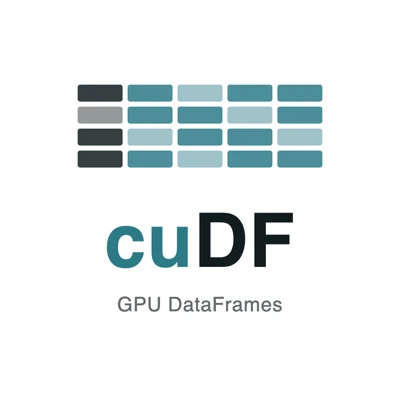
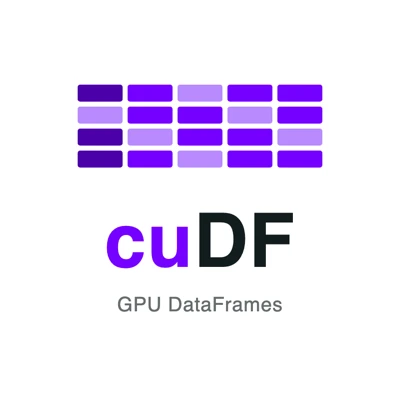
Brand colours for cuDF/Velox thumbnails; refresh About text and CAD DFT dates
- cuDF thumbnail in RAPIDS purple (#7400ff); Velox + cuDF in Velox blue
  (#143d99) and RAPIDS purple, with the GPU step in NVIDIA green (#76b900)
- About: current role (cuDF, Velox GPU backend) and "August 2014 to
  May 2019" CAD DFT Engineer wording
- Timeline: CAD DFT Engineer, Aug 2014 - May 2019

Changed region(s): [[0.18, 0.21, 0.81, 0.42], [0.24, 0.54, 0.48, 0.69]]

diff --git a/index.html b/index.html
@@ -121,8 +121,8 @@ function gotomini() {
       <div class="col-md-12 text-center"><img src="img/about.webp" class="img-responsive" width="200" height="200" alt="Karthikeyan Natarajan"></div>
       <div class="col-md-8 col-md-offset-2">
         <div class="about-text">
-          <p> I am a Senior Software Engineer developing Analytics libraries in CUDA at RAPIDS team at <a href="https://developer.nvidia.com/blog/author/knataraj" class="link-strong">NVIDIA</a>.
-		  Before May 2019, I worked as Senior Software Engineer developing CAD-DFT tools at NVIDIA.  I developed Deep Learning solutions for EDA problems, EDA algorithms for DFT, and  applied parallel computing. 
+          <p> I am a Senior Software Engineer at <a href="https://developer.nvidia.com/blog/author/knataraj" class="link-strong">NVIDIA</a>, building GPU-accelerated data processing in CUDA: RAPIDS cuDF and the cuDF backend for the Velox query engine.
+		  From August 2014 to May 2019, I was a CAD DFT Engineer at NVIDIA, developing deep learning solutions for EDA problems, DFT algorithms, and applied parallel computing.
 		  <br>
 			I did M.S (Research) at the <a href="https://www.ee.iitm.ac.in/">Department of Electrical Engineering</a>, <a href="https://www.iitm.ac.in">Indian Institute of Technology Madras (IITM) </a>
             <!--, 
@@ -325,12 +325,12 @@ HW accelerators <!--& Computer Architecture--> and EDA Algorithms</p>
             <div class="timeline-image">
               <h3>Aug 2014 <br>
                 - <br>
-                April 2019 </h3>
+                May 2019 </h3>
             </div>
             <div class="timeline-panel">
               <div class="timeline-heading">
                 <h3>NVIDIA Graphics</h3>
-                <h3 class="subheading">CAD DFT Developer</h3>
+                <h3 class="subheading">CAD DFT Engineer</h3>
               </div>
               <div class="timeline-body">
                 <p>Developing and maintaining ATPG flow, scan insertion DFT tools used for more than 10 NVIDIA chips</p>
